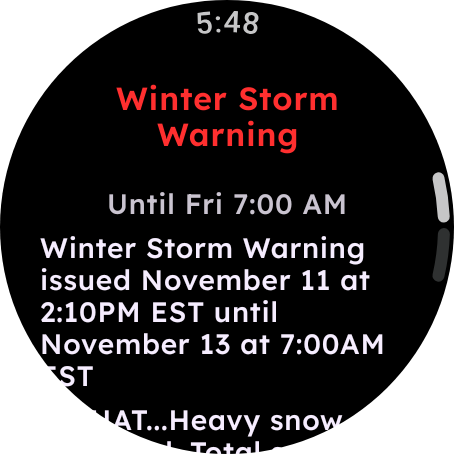
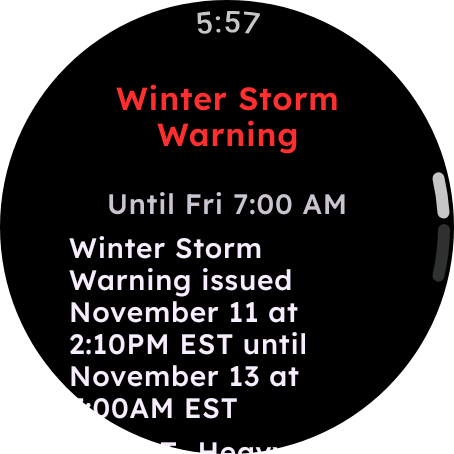
Wear: keep long alert text clear of a round screen's edge
Claude-Session: https://claude.ai/code/session_01DK8DfoD5Y2WqMefPfYjWTu

Changed region(s): [[0.0925, 0.5242, 0.8634, 1.0], [0.4934, 0.0, 0.5859, 0.0925], [0.9559, 0.4626, 1.0, 0.5242]]

diff --git a/wear/src/main/kotlin/app/northvane/wear/ui/Screens.kt b/wear/src/main/kotlin/app/northvane/wear/ui/Screens.kt
@@ -248,6 +248,9 @@ private enum class Tone { NORMAL, ACCENT, ERROR, MUTED }
 private fun TransformingLazyColumnScope.paragraph(text: String, tone: Tone = Tone.NORMAL, center: Boolean = false) {
     item {
         val colors = MaterialTheme.colorScheme
+        // Long text reaches the curved edge as it scrolls past the top and bottom of a round screen.
+        val config = androidx.compose.ui.platform.LocalConfiguration.current
+        val side = if (config.isScreenRound) (config.screenWidthDp * 0.1f).dp else 8.dp
         Text(
             text,
             style = MaterialTheme.typography.bodyMedium,
@@ -258,7 +261,7 @@ private fun TransformingLazyColumnScope.paragraph(text: String, tone: Tone = Ton
                 Tone.MUTED -> colors.onSurfaceVariant
             },
             textAlign = if (center) TextAlign.Center else TextAlign.Start,
-            modifier = Modifier.fillMaxWidth().padding(horizontal = 8.dp),
+            modifier = Modifier.fillMaxWidth().padding(horizontal = side),
         )
     }
 }
